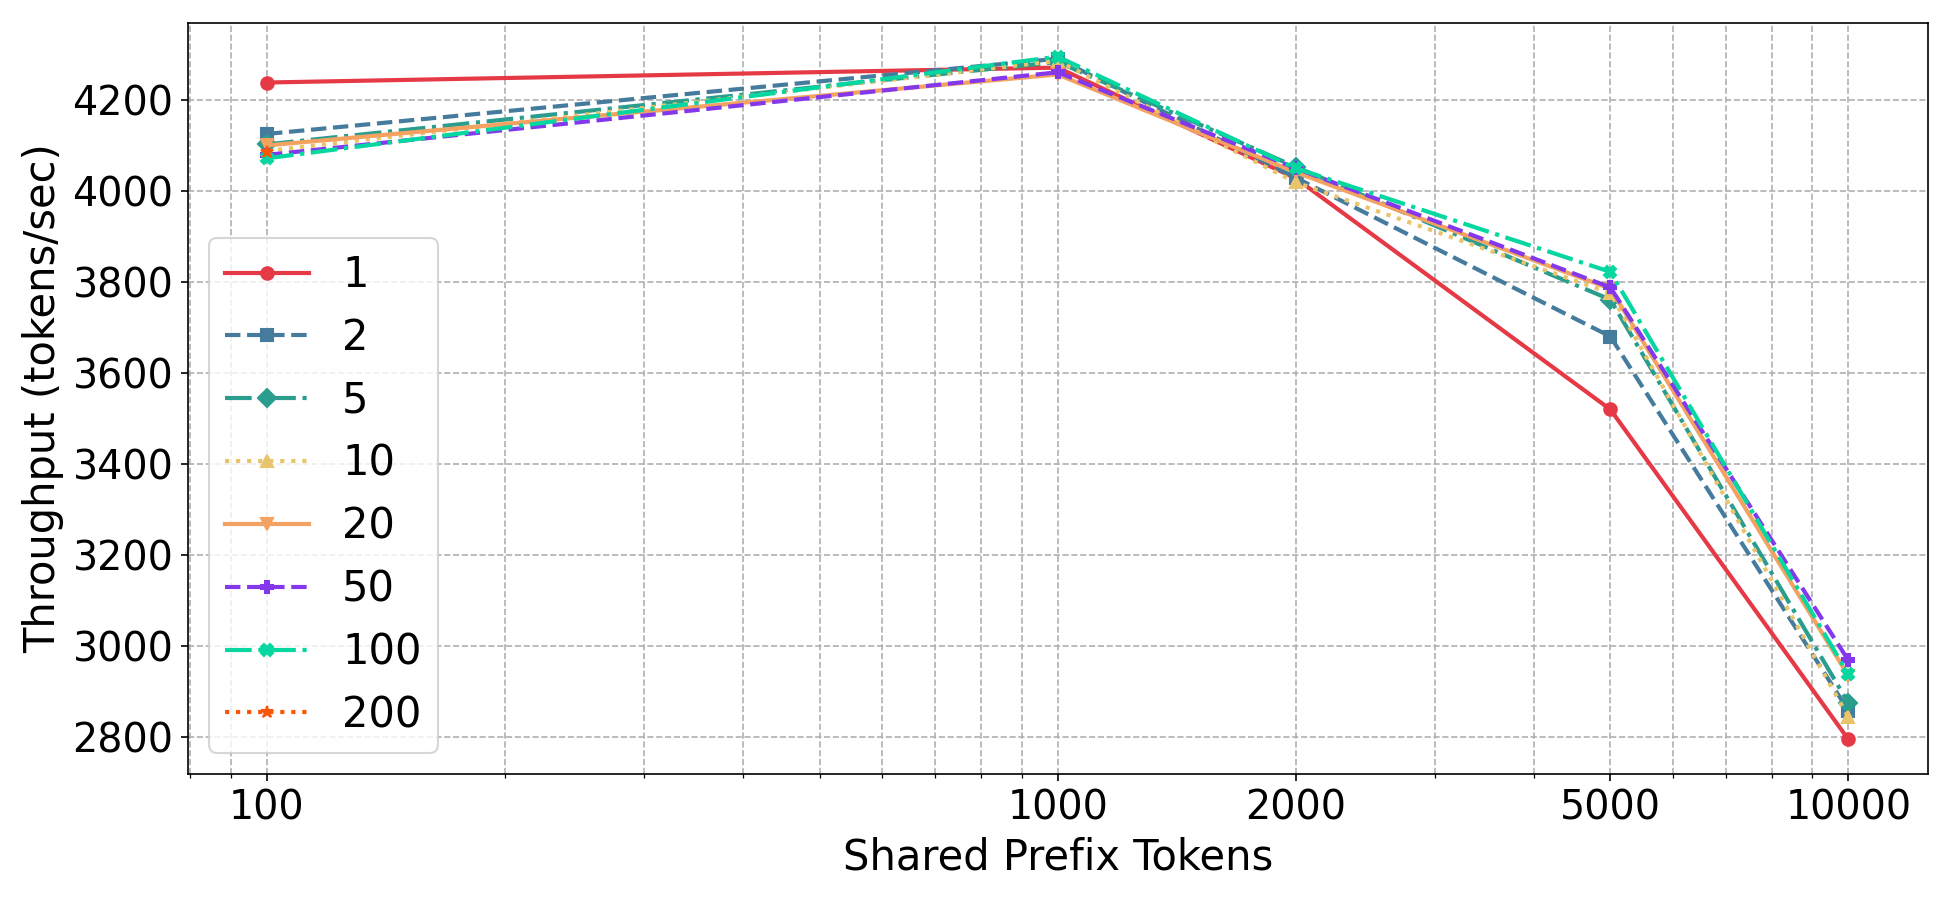
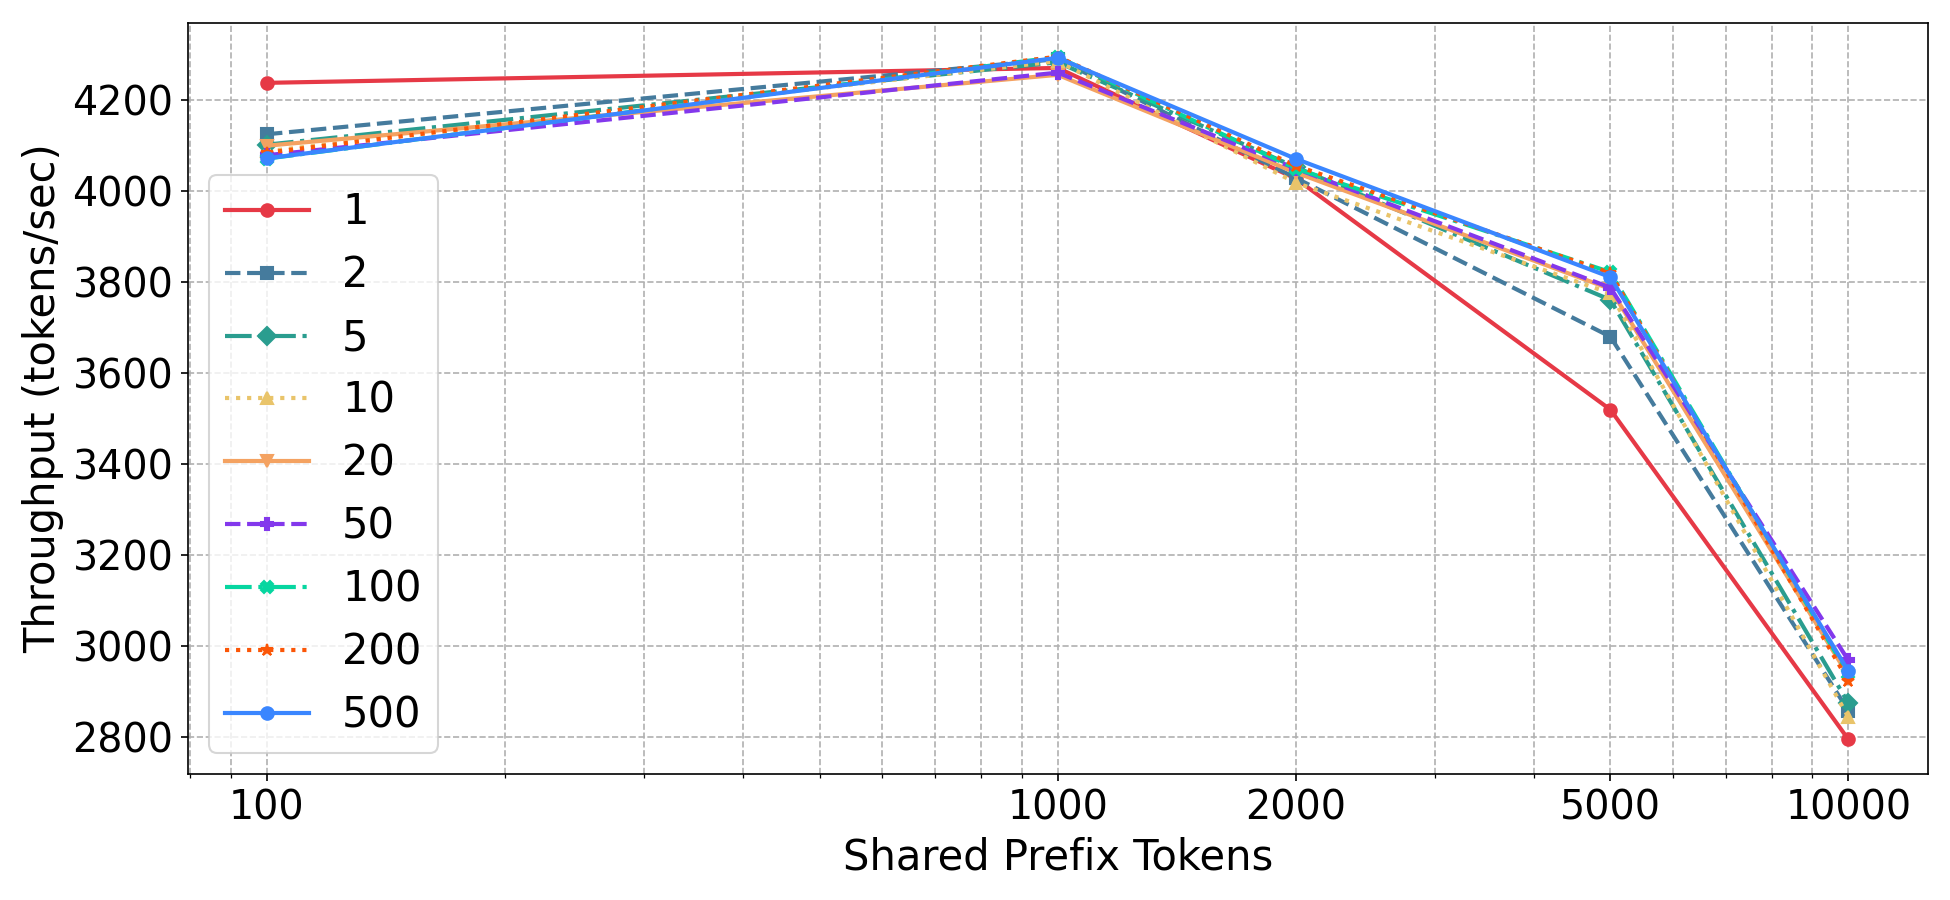
chunk size plots

diff --git a/code/vllm/chunk_size_logs/plot.py b/code/vllm/chunk_size_logs/plot.py
@@ -89,10 +89,10 @@ for path in log_files:
     if throughput is not None:
         throughput_data[chunk][sys_tok] = throughput
 
-# ── STYLE ─────────────────────────────────────────────────────────────────
 PALETTE = [
     "#E63946", "#457B9D", "#2A9D8F", "#E9C46A",
     "#F4A261", "#8338EC", "#06D6A0", "#FB5607",
+    "#3A86FF", "#FF006E",
 ]
 
 MARKERS    = ["o", "s", "D", "^", "v", "P", "X", "*"]
